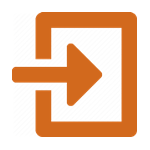
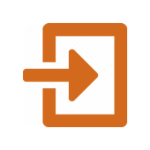
headtape links

diff --git a/styles/mainstyle.css b/styles/mainstyle.css
@@ -26,7 +26,7 @@ body
 { height: 34px; background-color: black; border: 1px solid #545454; padding: 5px;
   box-sizing: border-box;}
 #mainmenu
-{ background-color: black; border-radius: 0 0 5px 5px; padding: 15px;
+{ background-color: black; border-radius: 0 0 7px 7px; padding: 15px;
   box-sizing: border-box; border: 2px solid #545454; }
 
 #headtape
@@ -35,8 +35,8 @@ body
 .headhome
 { width: 42px; background-color: black; padding: 10px; display: flex;
   justify-content: center; align-items: center; height: 36px;
-  border-radius: 6px 0 0 0; box-sizing: border-box; flex-shrink: 0;
-  border: 3px solid chocolate; }
+  border-radius: 7px 0 0 0; box-sizing: border-box; flex-shrink: 0;
+  border: 3px solid chocolate; overflow: hidden; position: relative; }
 .headline
 { width: 411px; background-color: black; padding: 10px; color: chocolate;
   box-sizing: border-box; flex-shrink: 0; border: 3px solid chocolate; }
@@ -44,19 +44,26 @@ body
 { width: 200px; background-color: black; padding: 10px; color: chocolate;
   box-sizing: border-box; flex-shrink: 0; border: 3px solid chocolate; }
 .headexit
-{ width: 42px; background-color: black; padding: 10px;
-  border-radius: 0 6px 0 0; box-sizing: border-box; flex-shrink: 0;
-  border: 3px solid chocolate; }
+{ width: 42px; background-color: black; padding: 10px; display: flex;
+  justify-content: center; align-items: center; height: 36px;
+  border-radius: 0 7px 0 0; box-sizing: border-box; flex-shrink: 0;
+  border: 3px solid chocolate; overflow: hidden; position: relative; }
 
+.headlink
+{ display: flex; justify-content: center; align-items: center; width: 100%;
+  height: 100%; }
 .headlink img
-{ transition: transform 0.3s ease; width: 22px; height: auto; }
+{ transition: transform 0.1s ease; width: auto; height: auto; object-fit: contain;
+  max-width: 150%; max-height: 150%; transform: scale(1.9); }
+.headlink:hover img
+{ transform: scale(2.2); }
 
 #maincont
 { min-height: 200px; background-color: black; padding: 15px; color: gray;
   box-sizing: border-box; border: 3px solid #545454; }
 #foottape
 { height: 40px; background-color: black; padding: 15px; color: chocolate;
-  border-radius: 0 0 6px 6px; box-sizing: border-box; margin-bottom: 7px;
+  border-radius: 0 0 7px 7px; box-sizing: border-box; margin-bottom: 7px;
   border: 3px solid chocolate; }
 
   /* scrollup styles */

diff --git a/pages/index.html b/pages/index.html
@@ -41,7 +41,11 @@
           </div>
           <div class="headline">Блок 2</div>
           <div class="headuser">Блок 3</div>
-          <div class="headexit"></div>
+          <div class="headexit">
+            <a href="#" class="headlink">
+              <img src="../images/exit.png">
+            </a>
+          </div>
         </div>
         <div id="maincont">Основное содержимое
           <br><br><br><br><br><br><br><br><br><br><br><br><br><br><br><br><br><br><br><br><br><br><br><br><br><br><br><br><br><br><br><br><br>
